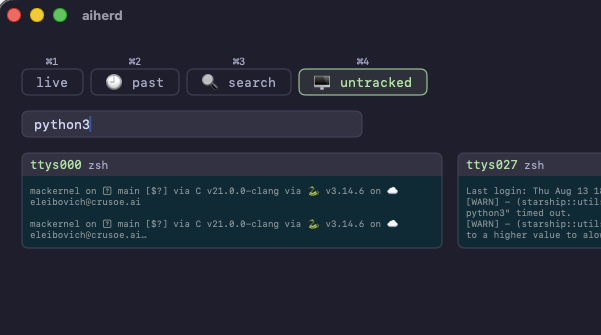
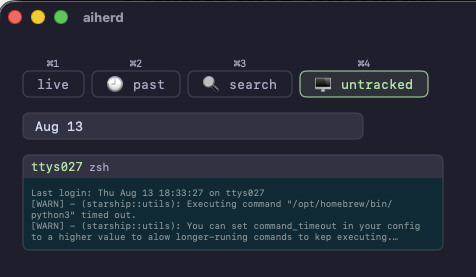
homepage: the newer untracked capture, caption to match

diff --git a/docs/index.html b/docs/index.html
@@ -232,10 +232,10 @@
     </div>
 
     <figure class="mt-10">
-      <img src="img/untracked.png" class="shot mx-auto" alt="The untracked tab with its filter box reading python3: two zsh rows, each naming its terminal and showing its recent output, with the selected row's screen open beside the list">
-      <figcaption class="shot-caption mx-auto max-w-3xl text-center">The untracked tab, filtered to
-      <em>python3</em>: one row per plain shell, its recent output in place, and the
-      selected row's screen at full size beside the list. ⏎ tracks one onto the
+      <img src="img/untracked.png" class="shot mx-auto" alt="The untracked tab: a day header, then a row for a plain zsh shell naming its terminal, with its recent output shown in place">
+      <figcaption class="shot-caption mx-auto max-w-3xl text-center">The untracked tab: one row per
+      terminal, newest output first, each named by the program that owns it — here a
+      plain <code>zsh</code> with its last lines in place. ⏎ tracks one onto the
       grid.</figcaption>
     </figure>
   </div>
